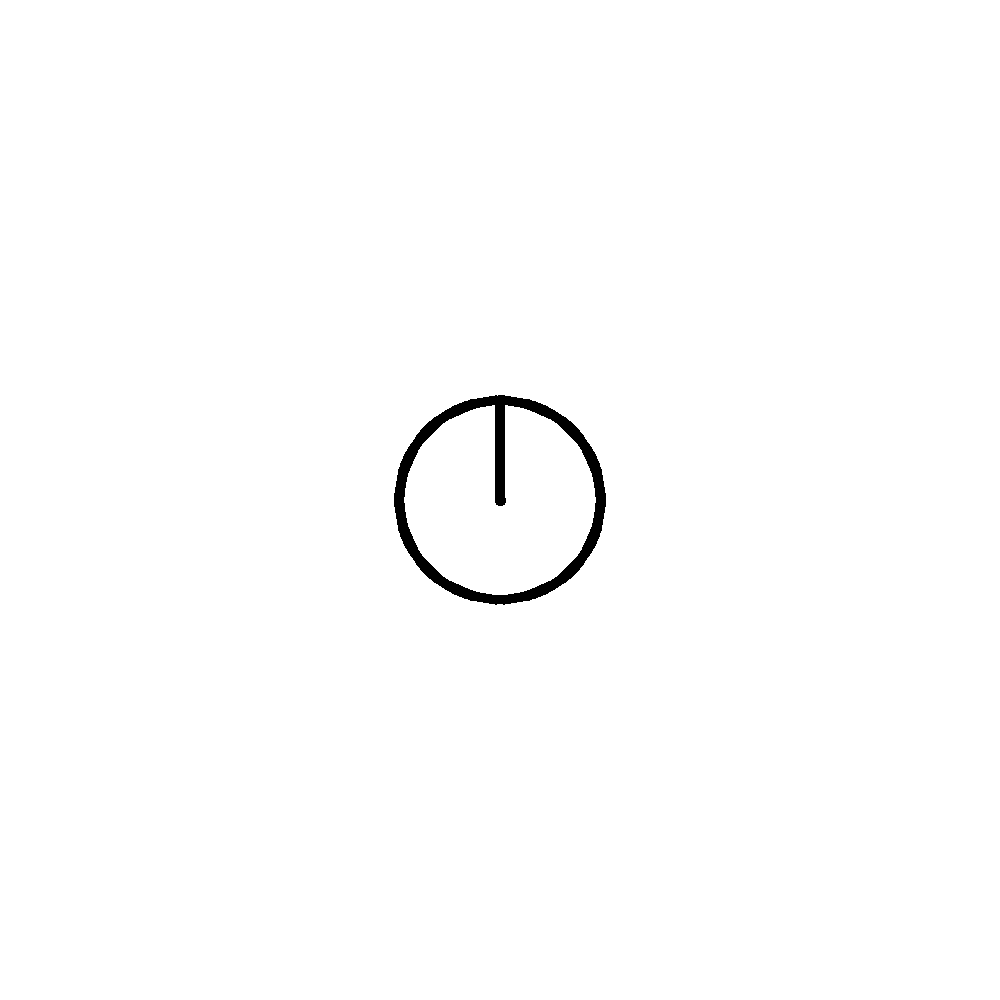
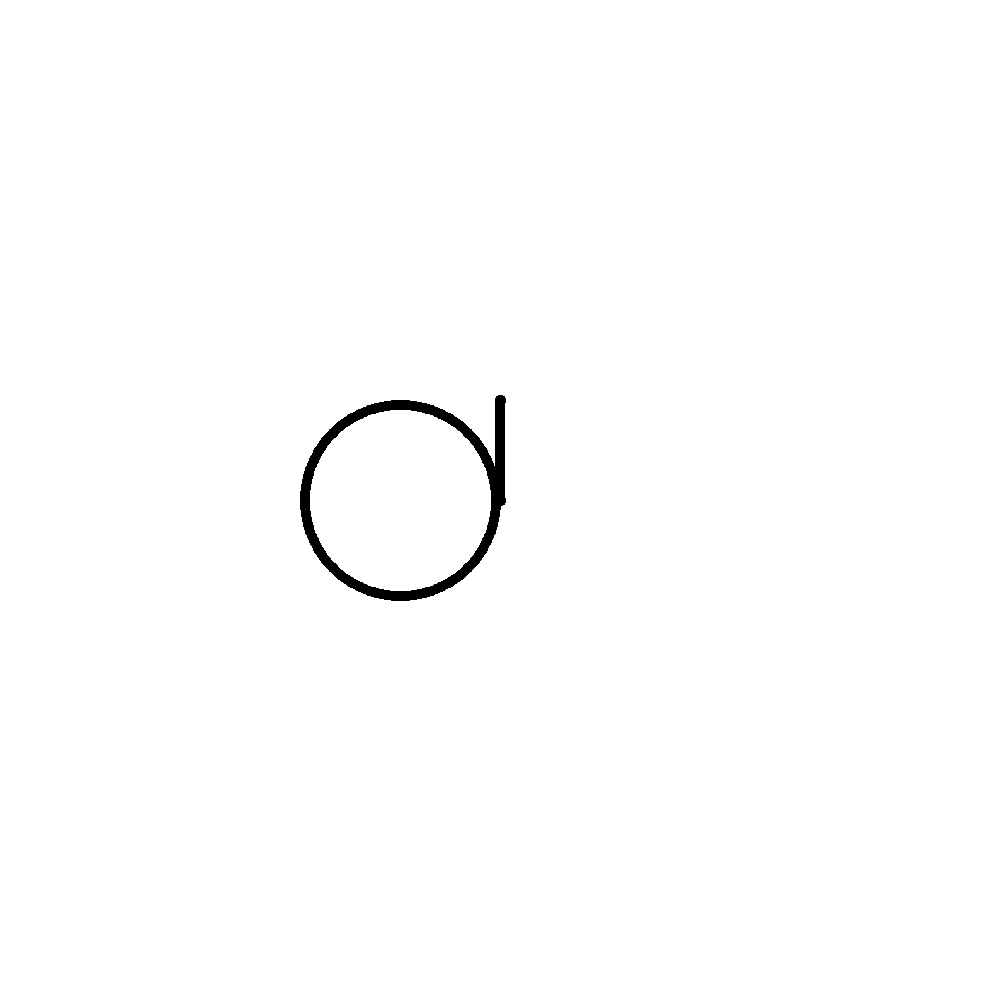
stuff

Changed region(s): [[0.31, 0.372, 0.62, 0.62], [0.31, 0.527, 0.372, 0.589], [0.279, 0.465, 0.31, 0.527]]

diff --git a/abstract_turtle/turtle_class.py b/abstract_turtle/turtle_class.py
@@ -1,4 +1,4 @@
-from math import pi, sin, cos
+from math import pi, sin, cos, copysign
 
 from .model import Color, Position, DrawnTurtle
 from .canvas import Canvas
@@ -63,14 +63,35 @@ class BaseTurtle:
     seth = setheading
 
     @turtle_method
-    def circle(self, radius, extent=2*pi):
+    def circle(self, radius, extent=360):
         """
-        Draw a circle at the given point with the given RADIUS and EXTENT. If EXTENT exists, draw only the
+        Draw a circle starting at the given point with the given RADIUS and EXTENT. If EXTENT exists, draw only the
         first EXTENT degrees of the circle. If RADIUS is positive, draw in the counterclockwise direction.
         Otherwise, draw in the clockwise direction.
         """
+
+        extent = extent / self.__degrees * (2 * pi)
+
+        center = Position(
+            self.__current_pos.x - radius * sin(self.__theta),
+            self.__current_pos.y + radius * cos(self.__theta),
+        )
+        angle_change = copysign(1, radius) * extent
         if self.__pen_down:
-            self.__canvas.draw_circle(self.__current_pos, radius, self.__pen_color, self.__line_width, False, extent)
+            start_angle = self.__theta - pi / 2 * copysign(1, radius)
+            end_angle = start_angle + angle_change
+            if radius * extent < 0:
+                start_angle, end_angle = end_angle, start_angle
+            self.__canvas.draw_circle(
+                center, abs(radius), self.__pen_color, self.__line_width, False, start_angle, end_angle
+            )
+        final_pos = Position(
+            center.x + radius * sin(self.__theta + angle_change),
+            center.y - radius * cos(self.__theta + angle_change),
+        )
+        self.__theta += angle_change
+        self.__x, self.__y = final_pos.x, final_pos.y
+        self.__update_turtle()
 
     @turtle_method
     def dot(self, size=None):

diff --git a/abstract_turtle/pillow_canvas.py b/abstract_turtle/pillow_canvas.py
@@ -32,16 +32,17 @@ class PillowCanvas(Canvas):
     def draw_rectangular_line(self, start, end, color, width):
         self.draw.line([self.tr_pos(start), self.tr_pos(end)], self.tr_color(color), width)
 
-    def draw_circle(self, center, radius, color, width, is_filled, extent=2 * pi):
-        # FIXME: DOES NOT SUPPORT EXTENT PROPERLY YET
+    def draw_circle(self, center, radius, color, width, is_filled, start=0, end=2*pi):
         x, y = self.tr_pos(center)
         left_up = (x-radius, y-radius)
         right_down = (x+radius, y+radius)
         box = [left_up, right_down]
         if is_filled:
+            assert start == 0
+            assert end == 2 * pi
             self.draw.ellipse(box, fill=self.tr_color(color))
         else:
-            circle(self.draw, x, y, radius, self.tr_color(color), width=width)
+            self.draw.arc(box, -end * 180 / pi, -start * 180 / pi, fill=self.tr_color(color), width=width)
 
     def fill_polygon(self, points, color):
         self.draw.polygon(
@@ -71,19 +72,3 @@ class PillowCanvas(Canvas):
     def refreshed_turtle(self, turtle):
         # no need to do stuff
         pass
-
-def circle(draw, cx, cy, r, fill, width=1, segments=100):
-    # based on https://gist.github.com/skion/9259926
-    da = 2 * pi / segments
-    dl = r * da
-
-    for i in range(segments):
-        a = (i+0.5) * da
-
-        x = cx + r * cos(a)
-        y = cy + r * sin(a)
-
-        dx = -sin(a) * dl
-        dy = cos(a) * dl
-
-        draw.line([(x-dx, y-dy), (x+dx, y+dy)], fill=fill, width=width)

diff --git a/abstract_turtle/canvas.py b/abstract_turtle/canvas.py
@@ -33,11 +33,11 @@ class Canvas(ABC):
             self.draw_circle(end, width / 2, color, width, True)
 
     @abstractmethod
-    def draw_circle(self, center, radius, color, width, is_filled, extent=2 * pi):
+    def draw_circle(self, center, radius, color, width, is_filled, start=0, end=2*pi):
         """
-        Draw a circle of width 1 with the given center CENTER, radius RADIUS, and color COLOR
-        If EXTENT exists, draw only the first EXTENT degrees of the circle. If RADIUS is positive,
-        draw in the counterclockwise direction. Otherwise, draw in the clockwise direction.
+        Draw a circle of width 1 with the given center CENTER, radius RADIUS, and color COLOR.
+        Only draw the portion with angle between START and END, moving counterclockwise from START to END.
+        RADIUS must be non-negative.
 
         Fill the circle if IS_FILLED is true.
         """

diff --git a/abstract_turtle/logging_canvas.py b/abstract_turtle/logging_canvas.py
@@ -17,8 +17,8 @@ class AbstractLoggingCanvas(Canvas):
     def draw_rectangular_line(self, start, end, color, width):
         self.on_action(['draw_rectangular_line', [start.x, start.y, end.x, end.y], color, width])
 
-    def draw_circle(self, center, radius, color, width, is_filled, extent=2 * pi):
-        self.on_action(['draw_circle', [center.x, center.y, radius], color, width, is_filled, extent])
+    def draw_circle(self, center, radius, color, width, is_filled, start=0, end=2*pi):
+        self.on_action(['draw_circle', [center.x, center.y, radius], color, width, is_filled, start, end])
 
     def fill_polygon(self, points, color):
         self.on_action(['fill_polygon', [[point.x, point.y] for point in points], color])

diff --git a/tests/image_tests.py b/tests/image_tests.py
@@ -81,6 +81,7 @@ class BasicSquareTest(unittest.TestCase):
 
     def test_circle(self):
         t = self.turtle
+        t.fd(100)
         t.circle(100)
         t.fd(100)
         self.assertImageEquals("test_img/basic_circle.png")
@@ -210,3 +211,16 @@ class BasicSquareTest(unittest.TestCase):
         t.pencolor("#1fb")
         t.fd(100)
         self.assertImageEquals("test_img/color_strings.png")
+
+    def test_partial_circle(self):
+        t = self.turtle
+        t.fd(100)
+        t.circle(100, 90)
+        t.fd(100)
+        t.circle(50, -90)
+        t.fd(100)
+        t.circle(-50, 90)
+        t.fd(100)
+        t.circle(-50, -90)
+        t.fd(100)
+        self.assertImageEquals("test_img/partial_circle.png")
